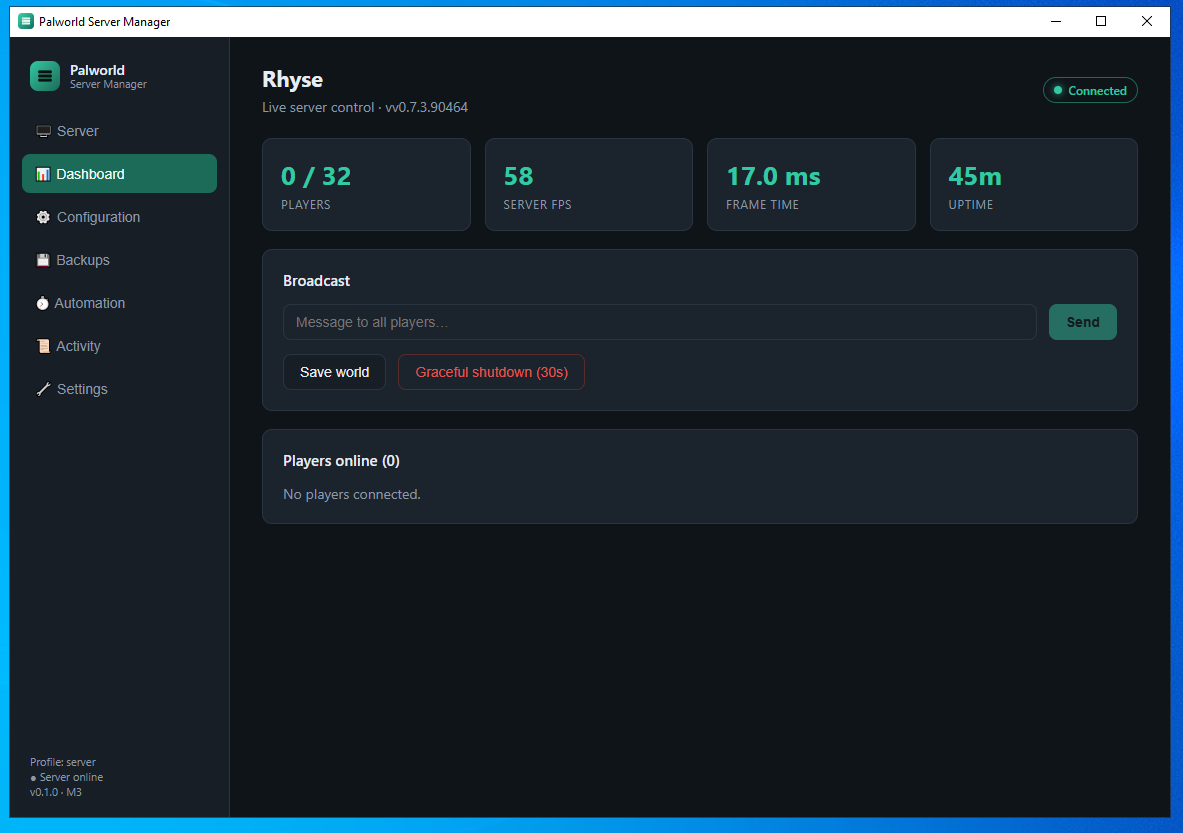
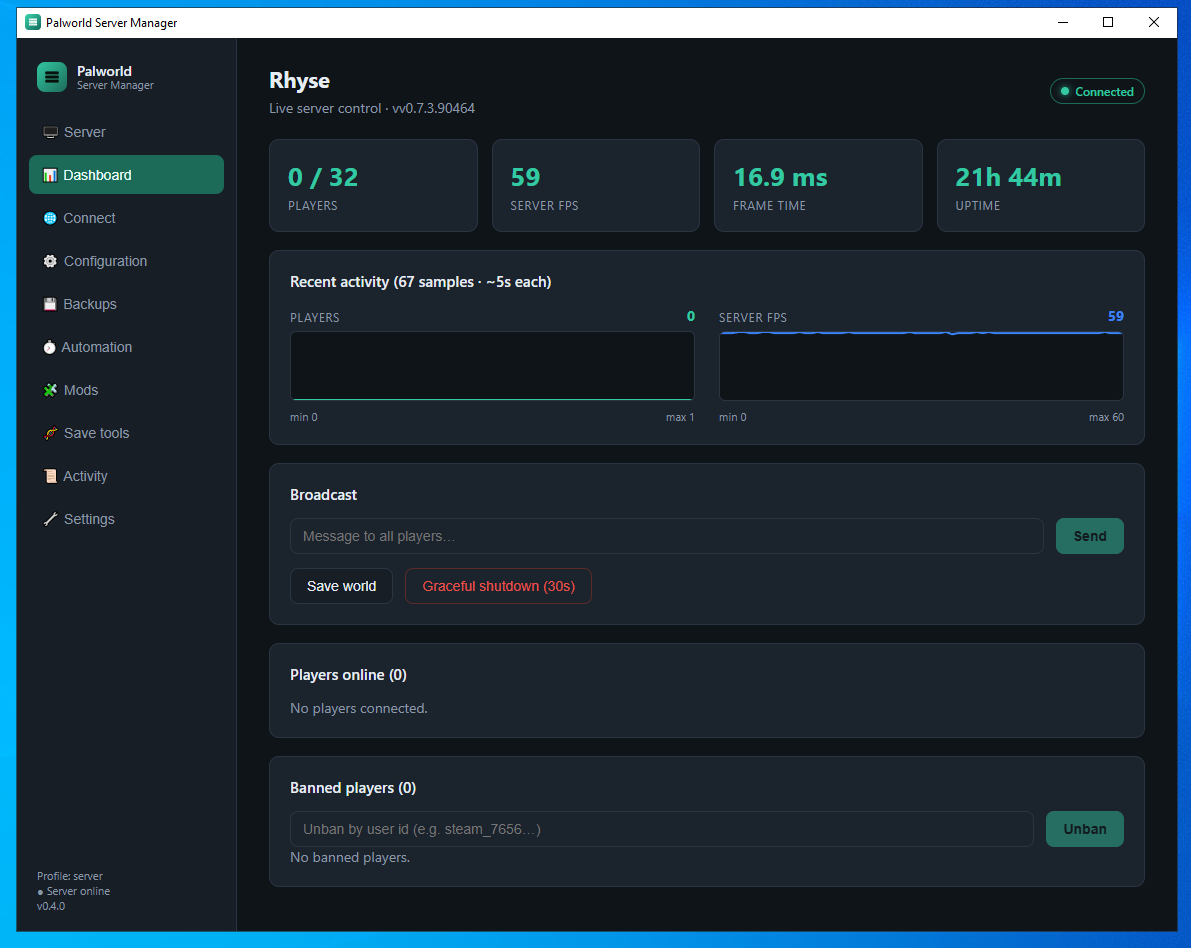
Palworld page: refresh screenshots + gallery (Connect, Mods, Save tools, updated Dashboard/Automation)

diff --git a/palworld/index.html b/palworld/index.html
@@ -186,11 +186,13 @@
             <p class="section-sub">Click any screenshot to enlarge.</p>
             <div class="shots">
                 <div class="shot" onclick="openLb('img/PAL_Server.PNG')"><img src="img/PAL_Server.PNG" alt="Server page" loading="lazy"><div class="cap">Install, update &amp; control your server</div></div>
-                <div class="shot" onclick="openLb('img/PAL_Dashboard.PNG')"><img src="img/PAL_Dashboard.PNG" alt="Dashboard" loading="lazy"><div class="cap">Live dashboard — players, metrics, moderation</div></div>
+                <div class="shot" onclick="openLb('img/PAL_Dashboard.PNG')"><img src="img/PAL_Dashboard.PNG" alt="Dashboard" loading="lazy"><div class="cap">Live dashboard — players, metrics graphs, kick / ban / unban</div></div>
                 <div class="shot" onclick="openLb('img/PAL_Configurations.PNG')"><img src="img/PAL_Configurations.PNG" alt="Configuration" loading="lazy"><div class="cap">Full settings editor — every option, searchable</div></div>
-                <div class="shot" onclick="openLb('img/PAL_Backups.PNG')"><img src="img/PAL_Backups.PNG" alt="Backups" loading="lazy"><div class="cap">One-click world backups &amp; restore</div></div>
-                <div class="shot" onclick="openLb('img/PAL_Automation.PNG')"><img src="img/PAL_Automation.PNG" alt="Automation" loading="lazy"><div class="cap">Scheduled restarts, backups &amp; crash recovery</div></div>
-                <div class="shot" onclick="openLb('img/PAL_Activity.PNG')"><img src="img/PAL_Activity.PNG" alt="Activity log" loading="lazy"><div class="cap">Activity log of everything the manager does</div></div>
+                <div class="shot" onclick="openLb('img/PAL_Connect.PNG')"><img src="img/PAL_Connect.PNG" alt="Connectivity" loading="lazy"><div class="cap">Connectivity helper — connect address &amp; one-click UPnP</div></div>
+                <div class="shot" onclick="openLb('img/PAL_Automation.PNG')"><img src="img/PAL_Automation.PNG" alt="Automation" loading="lazy"><div class="cap">Automation — restarts, backups, crash recovery, announcements</div></div>
+                <div class="shot" onclick="openLb('img/PAL_Backups.PNG')"><img src="img/PAL_Backups.PNG" alt="Backups" loading="lazy"><div class="cap">One-click backups &amp; restore, with off-site copy</div></div>
+                <div class="shot" onclick="openLb('img/PAL_Mods.PNG')"><img src="img/PAL_Mods.PNG" alt="Mod manager" loading="lazy"><div class="cap">Mod manager — install, enable &amp; disable .pak mods</div></div>
+                <div class="shot" onclick="openLb('img/PAL_SaveTools.PNG')"><img src="img/PAL_SaveTools.PNG" alt="Save tools" loading="lazy"><div class="cap">Save tools — read your world save (editing coming)</div></div>
             </div>
         </section>
 
